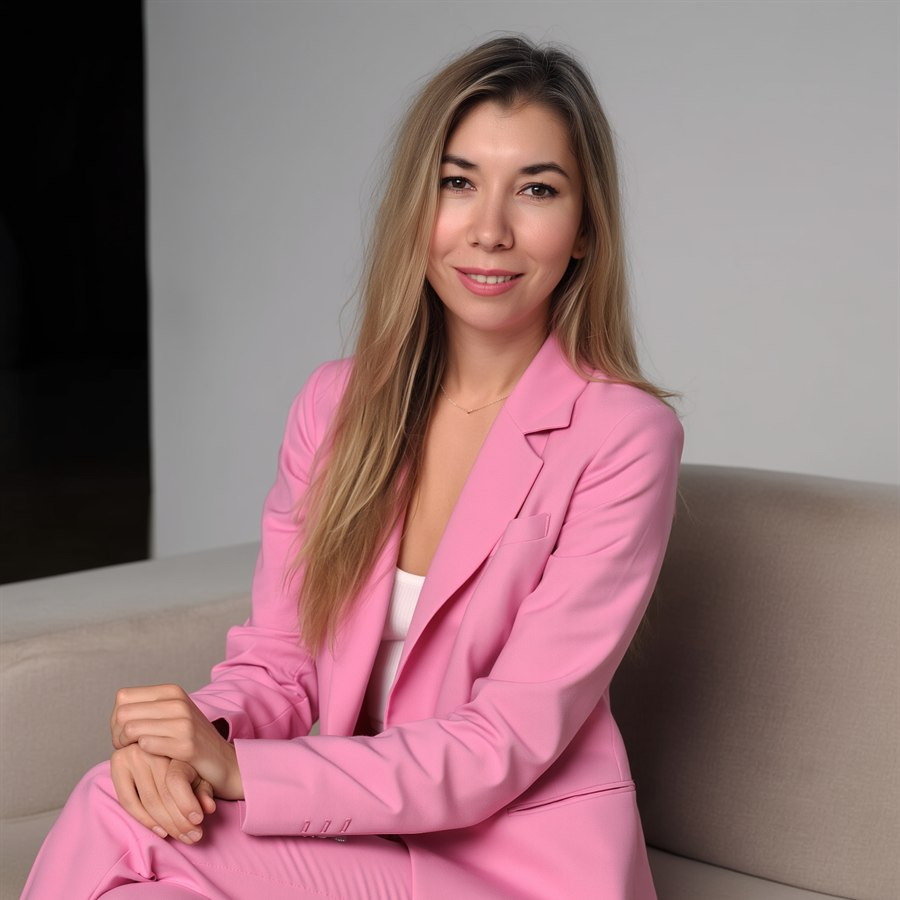
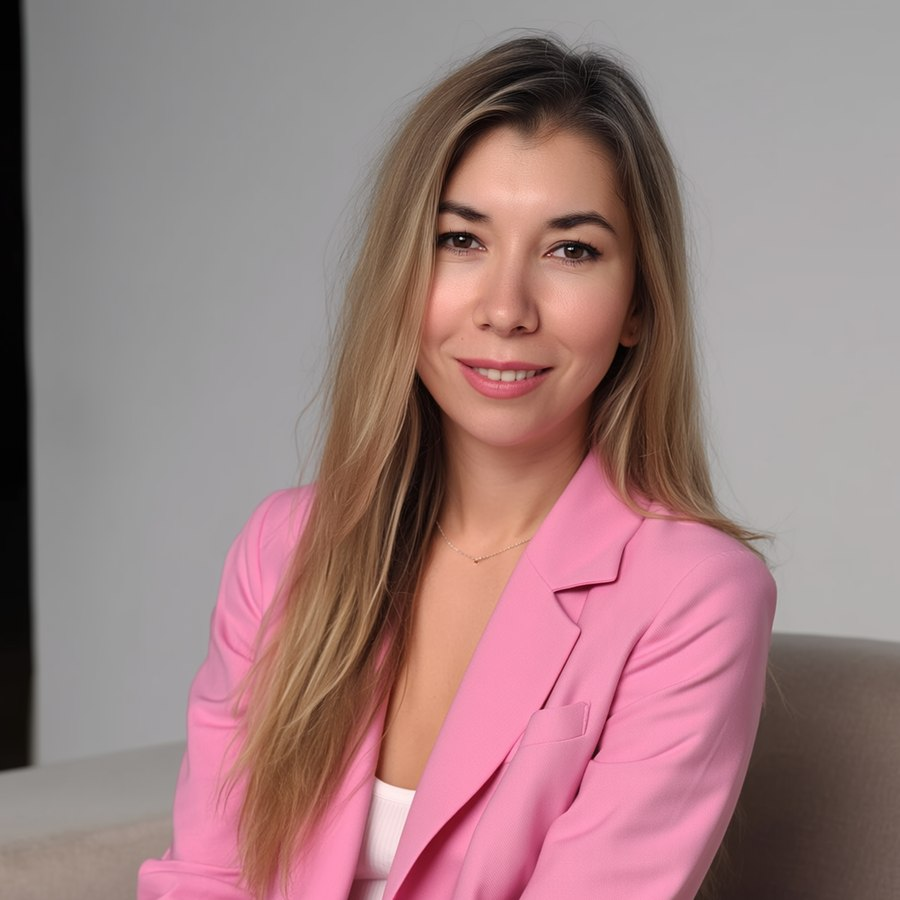
Refine Adele portrait and navigation order

diff --git a/src/App.jsx b/src/App.jsx
@@ -88,7 +88,7 @@ function kindFromText(text=''){ const s=text.toLowerCase(); if(s.includes('finan
 
 function Mega({ label, to, groups }) { return <div className="nav-item"><Link className="nav-trigger" to={to}>{label}</Link><div className="mega"><div className="mega-grid">{groups.map(([heading, href, items]) => <div className="mega-col" key={heading}><Link className="mega-head" to={href}>{heading}</Link>{items.map(([name, path]) => <Link className="mega-link" to={path} key={path}>{name}</Link>)}</div>)}</div></div></div>; }
 const legalConceptRoutes = {'/portfolio/legal-websites/personal-injury-classic':TestLawyer,'/portfolio/legal-websites/personal-injury-bold':TestLawyer2,'/portfolio/legal-websites/litigation-editorial':TestLawyer3,'/portfolio/legal-websites/brain-injury-3d':TestLawyer4,'/portfolio/legal-websites/personal-injury-cinematic':TestLawyer5,'/portfolio/legal-websites/personal-injury-family-focused':TestLawyer6};
-function Layout({ children }) { const { pathname } = useLocation(); const cleanPath=pathname.replace(/\/$/,'')||'/'; const Concept=legalConceptRoutes[cleanPath]; if(Concept) return <Concept/>; if(cleanPath==='/test6') return <TestLawyer6/>; if(['/test','/test2','/test3','/test4','/test5'].includes(cleanPath)) return children; if(cleanPath==='/portfolio') children=<Portfolio/>; if(cleanPath==='/portfolio/legal-websites') children=<LegalWebsites/>; return <><nav className="nav"><div className="container nav-inner"><Link className="brand" to="/">Magneo</Link><div className="nav-links"><Link to="/">Home</Link><Mega label="Services" to="/services/" groups={serviceMenus}/><Mega label="Industries" to="/industries/" groups={Object.values(industries).map((i)=>[i.label,i.route,i.subs])}/><Link to="/portfolio/">Portfolio</Link><Link to="/about-us/">About Us</Link><a href={BLOG}>Insights & Blog</a><Link to="/contact/">Contact</Link></div><Link className="btn" to="/contact/">Book a call</Link></div></nav><main>{children}</main><Footer/></>; }
+function Layout({ children }) { const { pathname } = useLocation(); const cleanPath=pathname.replace(/\/$/,'')||'/'; const Concept=legalConceptRoutes[cleanPath]; if(Concept) return <Concept/>; if(cleanPath==='/test6') return <TestLawyer6/>; if(['/test','/test2','/test3','/test4','/test5'].includes(cleanPath)) return children; if(cleanPath==='/portfolio') children=<Portfolio/>; if(cleanPath==='/portfolio/legal-websites') children=<LegalWebsites/>; return <><nav className="nav"><div className="container nav-inner"><Link className="brand" to="/">Magneo</Link><div className="nav-links"><Link to="/">Home</Link><Link to="/about-us/">About Us</Link><Mega label="Services" to="/services/" groups={serviceMenus}/><Mega label="Industries" to="/industries/" groups={Object.values(industries).map((i)=>[i.label,i.route,i.subs])}/><Link to="/portfolio/">Portfolio</Link><a href={BLOG}>Insights & Blog</a><Link to="/contact/">Contact</Link></div><Link className="btn" to="/contact/">Book a call</Link></div></nav><main>{children}</main><Footer/></>; }
 function Hero({ label, title, intro, stat='SEO', statText='Compliance-aware digital marketing systems for regulated industries.' }) { return <section className="hero"><div className="container hero-grid"><div><div className="crumb">Home / {label}</div><div className="label">{label}</div><h1 dangerouslySetInnerHTML={{__html:title}}/><p className="intro">{intro}</p><div className="actions"><Link className="btn" to="/contact/">Request a free audit</Link><Link className="btn outline" to="/services/">Explore services</Link></div></div><div className="glass"><span className="label">Magneo system</span><strong>{stat}</strong><p>{statText}</p></div></div></section>; }
 function Marquee({ items }) { const list = items || ['AI SEO','AI Social Media','AI UGC','AI Video Production','AI Web Design','AI Content Marketing','Compliance-Aware AI','Regulated Growth']; return <div className="marquee ai-marquee">{list.map(([label,path]) => <Link key={label} to={path}>{label}</Link>)}</div>; }
 function ServicesGrid(){ return <section className="section"><div className="container"><div className="section-head"><div><div className="label">What we do</div><h2>A full growth system<br/>for high-trust industries</h2></div><Link to="/services/">View all services</Link></div><div className="svc-grid">{coreServices.map(([title,path,desc],i)=><Link className="svc" to={path} key={path}><div className="svc-top"><span>0{i+1}</span><b>↗</b></div><h3>{title}</h3><p>{desc}</p><small>Regulated growth</small></Link>)}</div></div></section>; }
